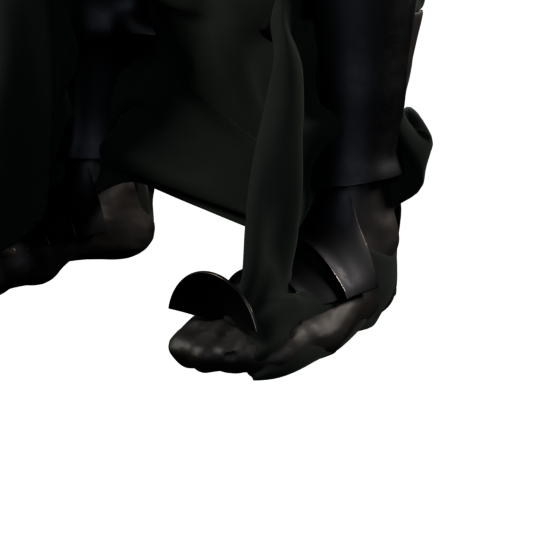
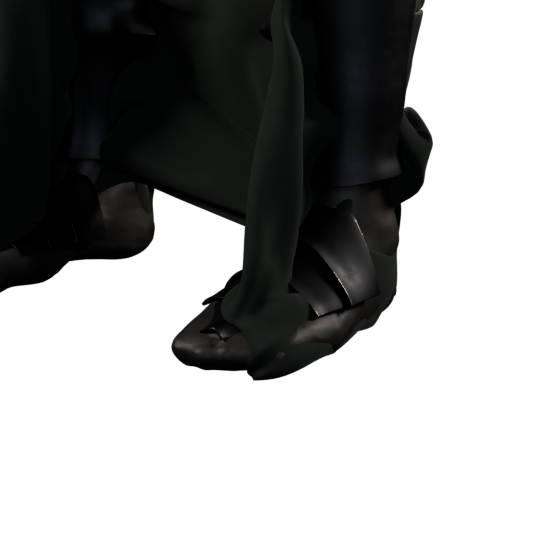
Doctor Doom CGI: smooth boot toe boxes, fixed sabatons, toe caps
Claude-Session: https://claude.ai/code/session_01QCbLLhRhhKSmvEsYX1B5Gh

Changed region(s): [[0.3036, 0.4857, 0.4554, 0.6679], [0.5464, 0.5161, 0.6679, 0.6071], [0.0304, 0.4857, 0.0911, 0.5161]]

diff --git a/doctor-doom-cgi/scripts/s09_waist_legs.py b/doctor-doom-cgi/scripts/s09_waist_legs.py
@@ -37,6 +37,26 @@ def bvh(objs):
         t = bmesh.new(); t.from_mesh(m); t.transform(o.matrix_world)
         tm = bpy.data.meshes.new("_tmp"); t.to_mesh(tm); t.free(); b.from_mesh(tm); bpy.data.meshes.remove(tm); e.to_mesh_clear()
     tr = BVHTree.FromBMesh(b); b.free(); return tr
+# ---- boot toe box: remove the individual toe shapes (smooth, then clearance over the foot skin)
+body = bpy.data.objects["DOOM_body"]
+fb = bmesh.new(); fb.from_mesh(body.data); fb.faces.ensure_lookup_table()
+bmesh.ops.delete(fb, geom=[f for f in fb.faces if f.calc_center_median().z > 0.16], context="FACES")
+foot_tree = BVHTree.FromBMesh(fb); fb.free()
+bb = bmesh.new(); bb.from_mesh(boots.data)
+for s_, sx in (("l", 1), ("r", -1)):
+    ball = Vector(J[s_ + "-foot-1"])
+    toe = [v for v in bb.verts if v.co.x * sx > 0 and v.co.y < ball.y + 0.03 and v.co.z < 0.075]
+    for _ in range(30):
+        bmesh.ops.smooth_vert(bb, verts=toe, factor=0.6, use_axis_x=True, use_axis_y=True, use_axis_z=True)
+    for v in toe:
+        loc, nrm, idx, d = foot_tree.find_nearest(v.co, 0.05)
+        if loc is not None and (v.co - loc).dot(nrm) < 0.006:
+            v.co = loc + nrm * 0.006
+    for _ in range(3):
+        bmesh.ops.smooth_vert(bb, verts=toe, factor=0.3, use_axis_x=True, use_axis_y=True, use_axis_z=True)
+bb.to_mesh(boots.data); bb.free(); boots.data.update()
+print("BOOT toe boxes smoothed")
+dg = bpy.context.evaluated_depsgraph_get()
 TREE = bvh([suit, boots])
 def rad(origin, d, fb=0.07):
     h = TREE.ray_cast(origin, d, 0.5)
@@ -172,12 +192,17 @@ for s, S_ in (("l", "L"), ("r", "R")):
     for k, (t0, t1, off) in enumerate(((0.18, 0.40, 0.016), (0.34, 0.56, 0.013), (0.50, 0.72, 0.010), (0.66, 0.90, 0.007))):
         NT, NP = 10, 24
         ts = np.linspace(t0, t1, NT); ps = np.radians(np.linspace(-78, 78, NP))
-        R = np.zeros((NT, NP)); D = {}
+        R = np.full((NT, NP), np.nan); D = {}
         for jj, t in enumerate(ts):
-            c0 = Vector((A.x, A.y, 0.035)) + ft * (t * Lf)
+            c0 = Vector((A.x, A.y, 0.028)) + ft * (t * Lf)
             for ii, ph in enumerate(ps):
                 d = (up * math.cos(ph) + side * math.sin(ph)).normalized()
-                R[jj, ii] = rad(c0, d, 0.05); D[jj, ii] = (c0, d)
+                h = TREE.ray_cast(c0, d, 0.12)
+                if h[0] is not None: R[jj, ii] = h[3]
+                D[jj, ii] = (c0, d)
+            row = R[jj]
+            if np.isnan(row).all(): R[jj] = np.nanmean(R[:jj]) if jj else 0.03
+            else: R[jj, np.isnan(row)] = np.nanmin(row)
         R = gaussian_filter(R, 1.2) + off
         P = np.zeros((NT, NP, 3))
         for jj in range(NT):
@@ -188,6 +213,34 @@ for s, S_ in (("l", "L"), ("r", "R")):
         orient_out(sb, Vector((A.x, A.y, 0.035)), Vector((A.x, A.y, 0.035)) + ft)
         hard_surface(sb, 0.0028)
         bone_parent(sb, ("DEF-foot." if k < 3 else "DEF-toe.") + S_); built.append(sb)
+
+# toe caps (front dome over the boot toe box)
+for s, S_ in (("l", "L"), ("r", "R")):
+    A, T2 = Vector(J[s + "-ankle"]), Vector(J[s + "-foot-2"])
+    ft = (T2 - A); ft.z = 0; ft.normalize()
+    c0 = Vector((T2.x, T2.y + 0.035, 0.028))
+    NT, NP = 12, 26
+    R = np.full((NT, NP), np.nan); D = {}
+    for jj, el in enumerate(np.radians(np.linspace(0, 80, NT))):
+        for ii, az in enumerate(np.radians(np.linspace(-80, 80, NP))):
+            side = ft.cross(Vector((0, 0, 1))).normalized()
+            d = (ft * math.cos(el) * math.cos(az) + side * math.cos(el) * math.sin(az) + Vector((0, 0, 1)) * math.sin(el)).normalized()
+            h = TREE.ray_cast(c0, d, 0.12)
+            if h[0] is not None: R[jj, ii] = h[3]
+            D[jj, ii] = d
+    R[np.isnan(R)] = np.nanmin(R)
+    R = gaussian_filter(R, 1.0) + 0.006
+    P = np.zeros((NT, NP, 3))
+    for jj in range(NT):
+        for ii in range(NP):
+            P[jj, ii] = c0 + D[jj, ii] * R[jj, ii]
+    tc = grid_object("DOOM_toecap_" + S_, P); orient_out(tc, c0 - ft * 0.1, c0)
+    bm_ = bmesh.new(); bm_.from_mesh(tc.data); bm_.normal_update()
+    ctr = c0 - ft * 0.02
+    if sum((f.calc_center_median() - ctr).dot(f.normal) for f in bm_.faces) < 0:
+        bmesh.ops.reverse_faces(bm_, faces=bm_.faces[:])
+    bm_.to_mesh(tc.data); bm_.free()
+    hard_surface(tc, 0.0028); bone_parent(tc, "DEF-toe." + S_); built.append(tc)
 
 for ob in built:
     r = L.mesh_report(ob); print("PIECE %-26s verts=%6d dims=%s" % (ob.name, r["verts"], r["dims_m"]))
